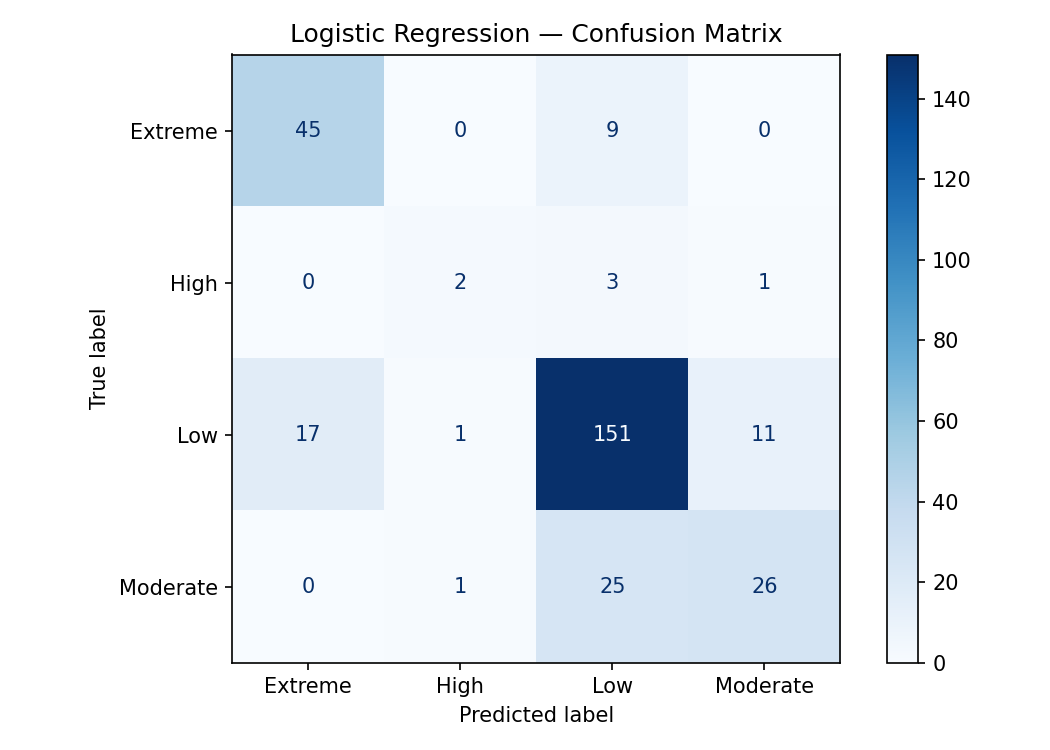
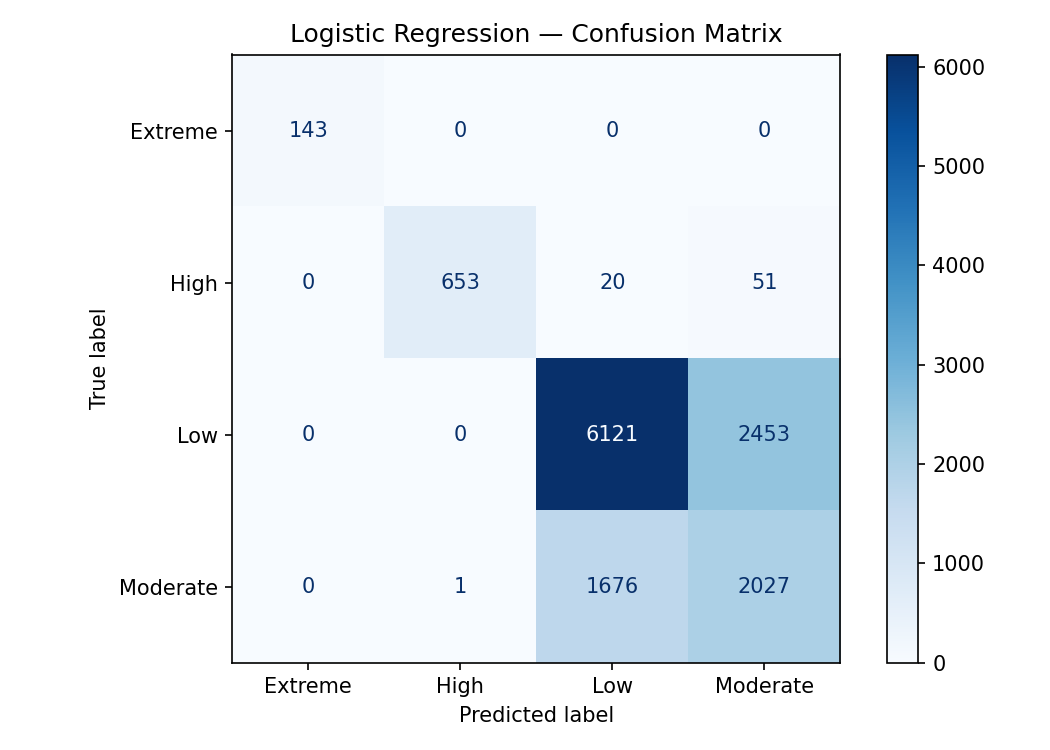
Retrain LR on new dataset.

diff --git a/logistic_regression.py b/logistic_regression.py
@@ -20,7 +20,7 @@ import joblib
 from preprocessing import preprocess_pipline
 
 # ── File Paths ─────────────────────────────────────────────────────────
-DATA_PATH = "data/merged_dataset.csv"
+DATA_PATH = "Data Sets/merged_dataset.csv"
 RESULTS_DIR = "results"
 os.makedirs(RESULTS_DIR, exist_ok=True) # Create results folder
 
@@ -54,6 +54,7 @@ baseline_model = LogisticRegression(
     solver = "lbfgs",
     max_iter=1000,
     random_state=42,
+    class_weight="balanced"
 )
 baseline_model.fit(X_train, y_train)
 
@@ -83,11 +84,11 @@ print("=" * 50)
 
 param_grid = {
     "C":        [0.01, 0.1, 1, 10, 100],   # regularization values to try
-    "max_iter": [1000],
+    "max_iter": [2000],
 }
 
 grid_search = GridSearchCV(
-    LogisticRegression(solver="lbfgs", random_state=42),
+    LogisticRegression(solver="lbfgs", random_state=42, class_weight="balanced"),
     param_grid,
     cv=5,
     scoring="f1_macro",   # f1_macro penalizes the model for ignoring minority classes

diff --git a/preprocessing.py b/preprocessing.py
@@ -15,8 +15,7 @@ NUMERIC_FEATURES = [
     "Humidity (%)",
     "Rainfall (mm)",
     "Wind Speed (km/h)",
-    "num_fires",
-    "avg_size_ha",
+    "SIZE_HA",
 
 ]
 
@@ -24,7 +23,7 @@ NUMERIC_FEATURES = [
 CATEGORICAL_FEATURES = ["Region", "Season"]
 
 # Metric to be Predicted
-TARGET = "dominant_risk"
+TARGET = "RISK_LABEL"
 
 def load_data(filepath):
     """
@@ -47,7 +46,7 @@ def encode_features(df):
     df_encoded = pd.get_dummies(df, columns=CATEGORICAL_FEATURES, drop_first=False)
 
     # Drop year and month features: irrelevant 
-    drop_cols = [TARGET, "Year", "Month"]
+    drop_cols = [TARGET, "Year", "Month", "FIRE_NO", "IGN_DATE", "FIRE_CAUSE"]
     feature_cols = [c for c in df_encoded.columns if c not in drop_cols]
 
     X = df_encoded[feature_cols].astype(float)

diff --git a/README.md b/README.md
@@ -32,7 +32,7 @@ source venv/bin/activate        # Mac / Linux
 venv\Scripts\activate           # Windows
 
 # 3. Install dependencies
-pip install pip install scikit-learn pandas numpy matplotlib seaborn joblib openpyxl
+pip install scikit-learn pandas numpy matplotlib seaborn joblib openpyxl
 
 # 4. Run Script
 python3 logistic_regression.py
